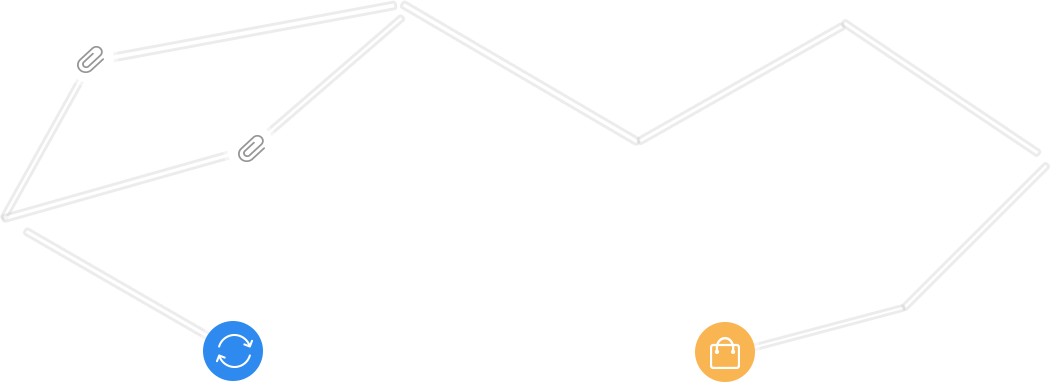
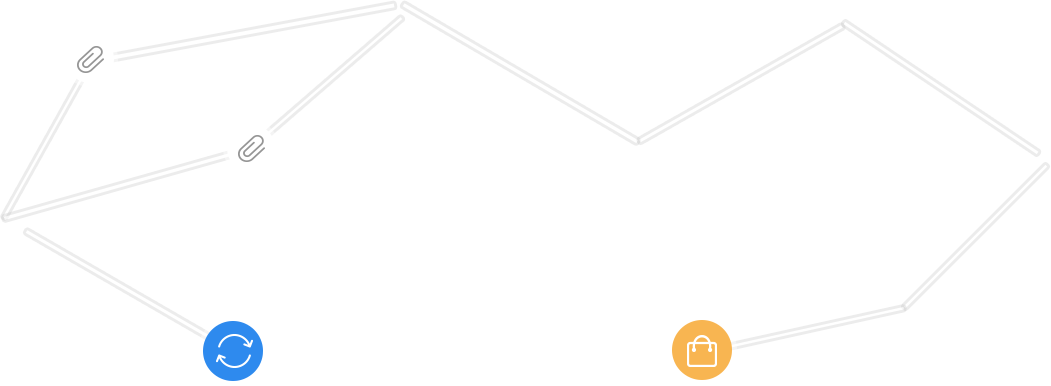
流程修改

diff --git a/src/app/common/board-process/board-process.component.html b/src/app/common/board-process/board-process.component.html
@@ -11,6 +11,7 @@
       <div id="h7" class="title">技术开发</div>
       <div id="h8" class="title">测试</div>
       <div id="h9" class="title">完成交付</div>
+      <div id="h10" class="title">应用市场上架</div>
       <div id="g1" class="group">
         <span class="bg"></span>
       </div>

diff --git a/src/app/common/board-process/board-process.component.css b/src/app/common/board-process/board-process.component.css
@@ -68,6 +68,11 @@
   right: 110px;
 }
 
+#h10 {
+  bottom: -40px;
+  right: 285px;
+}
+
 @keyframes bgLight {
   from {
     background-color: transparent;
